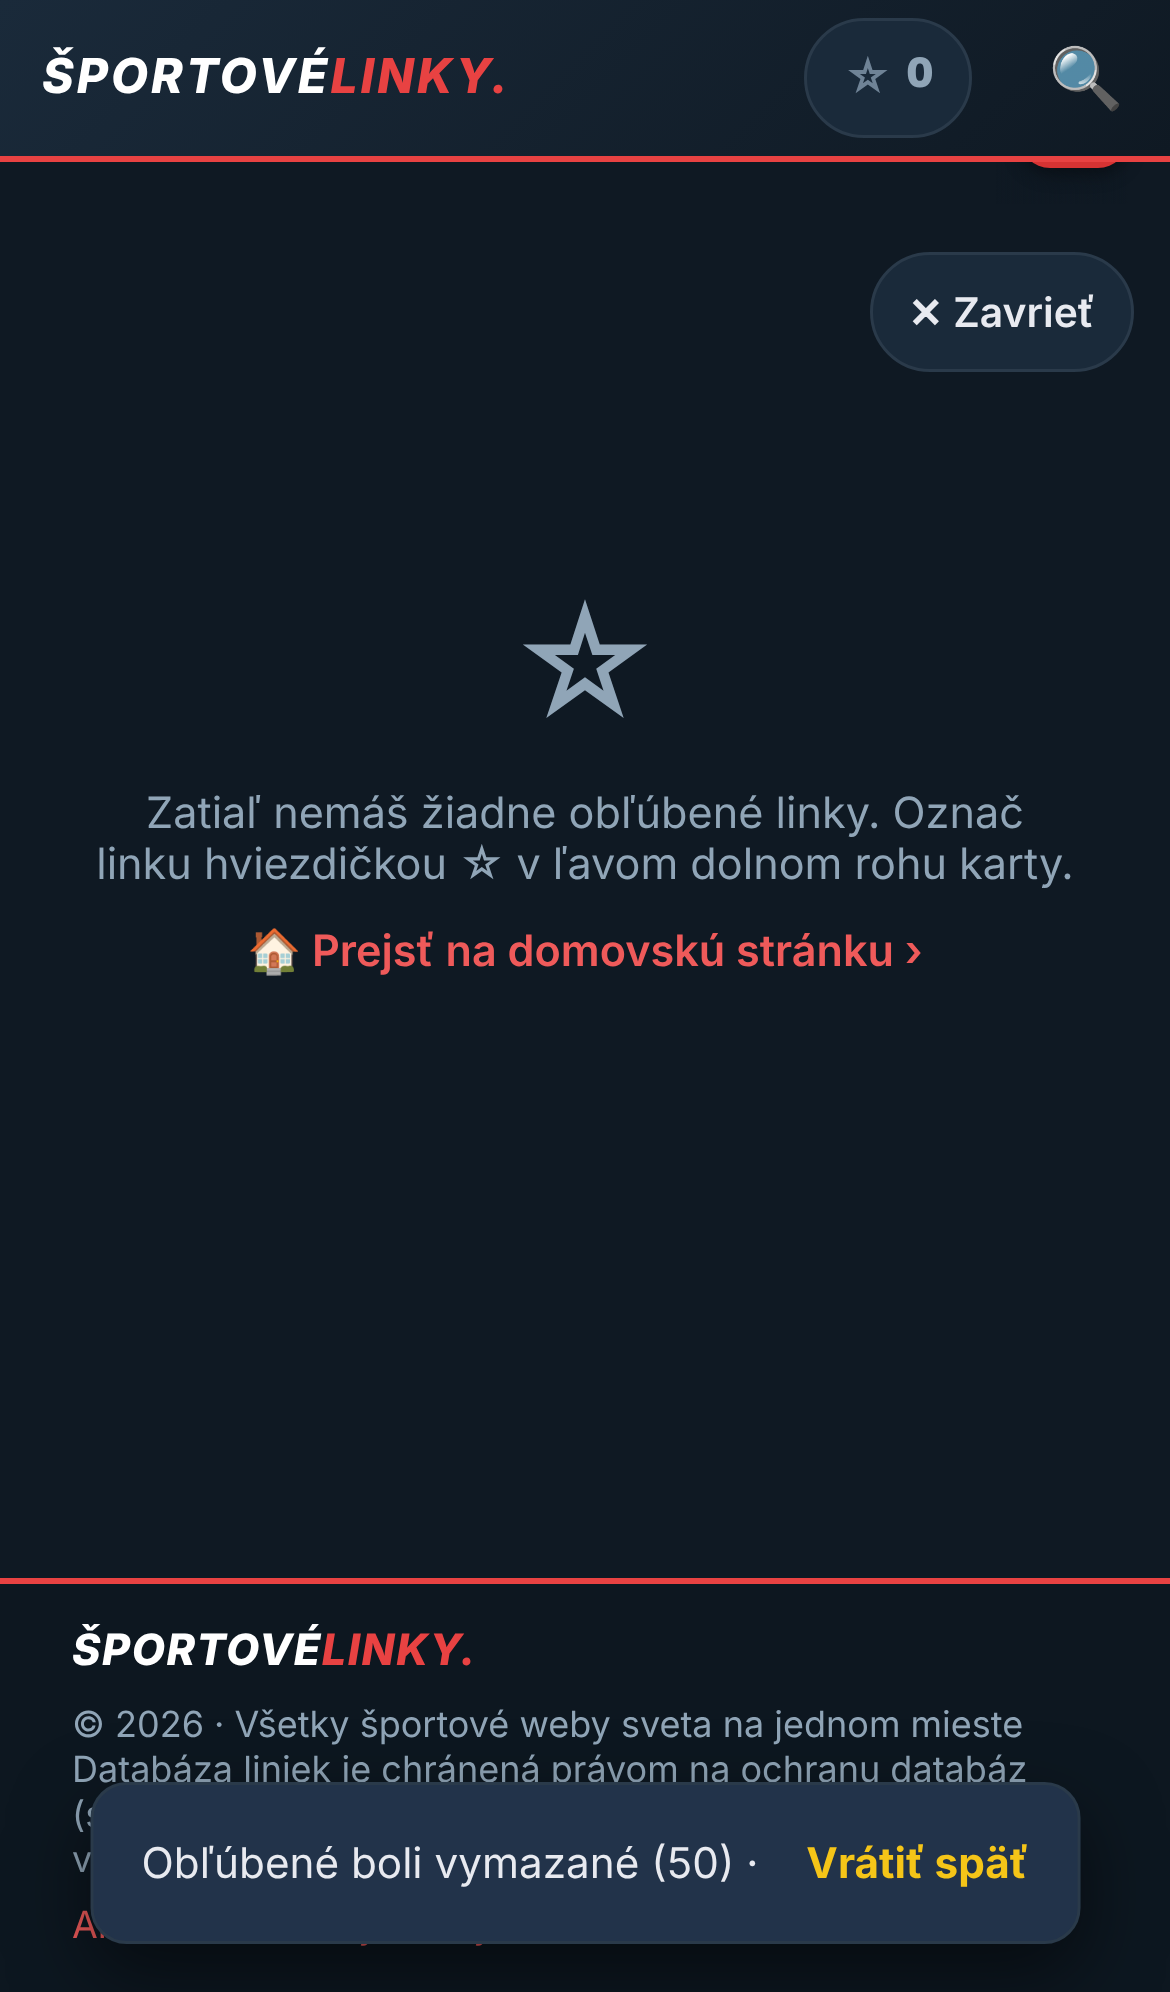
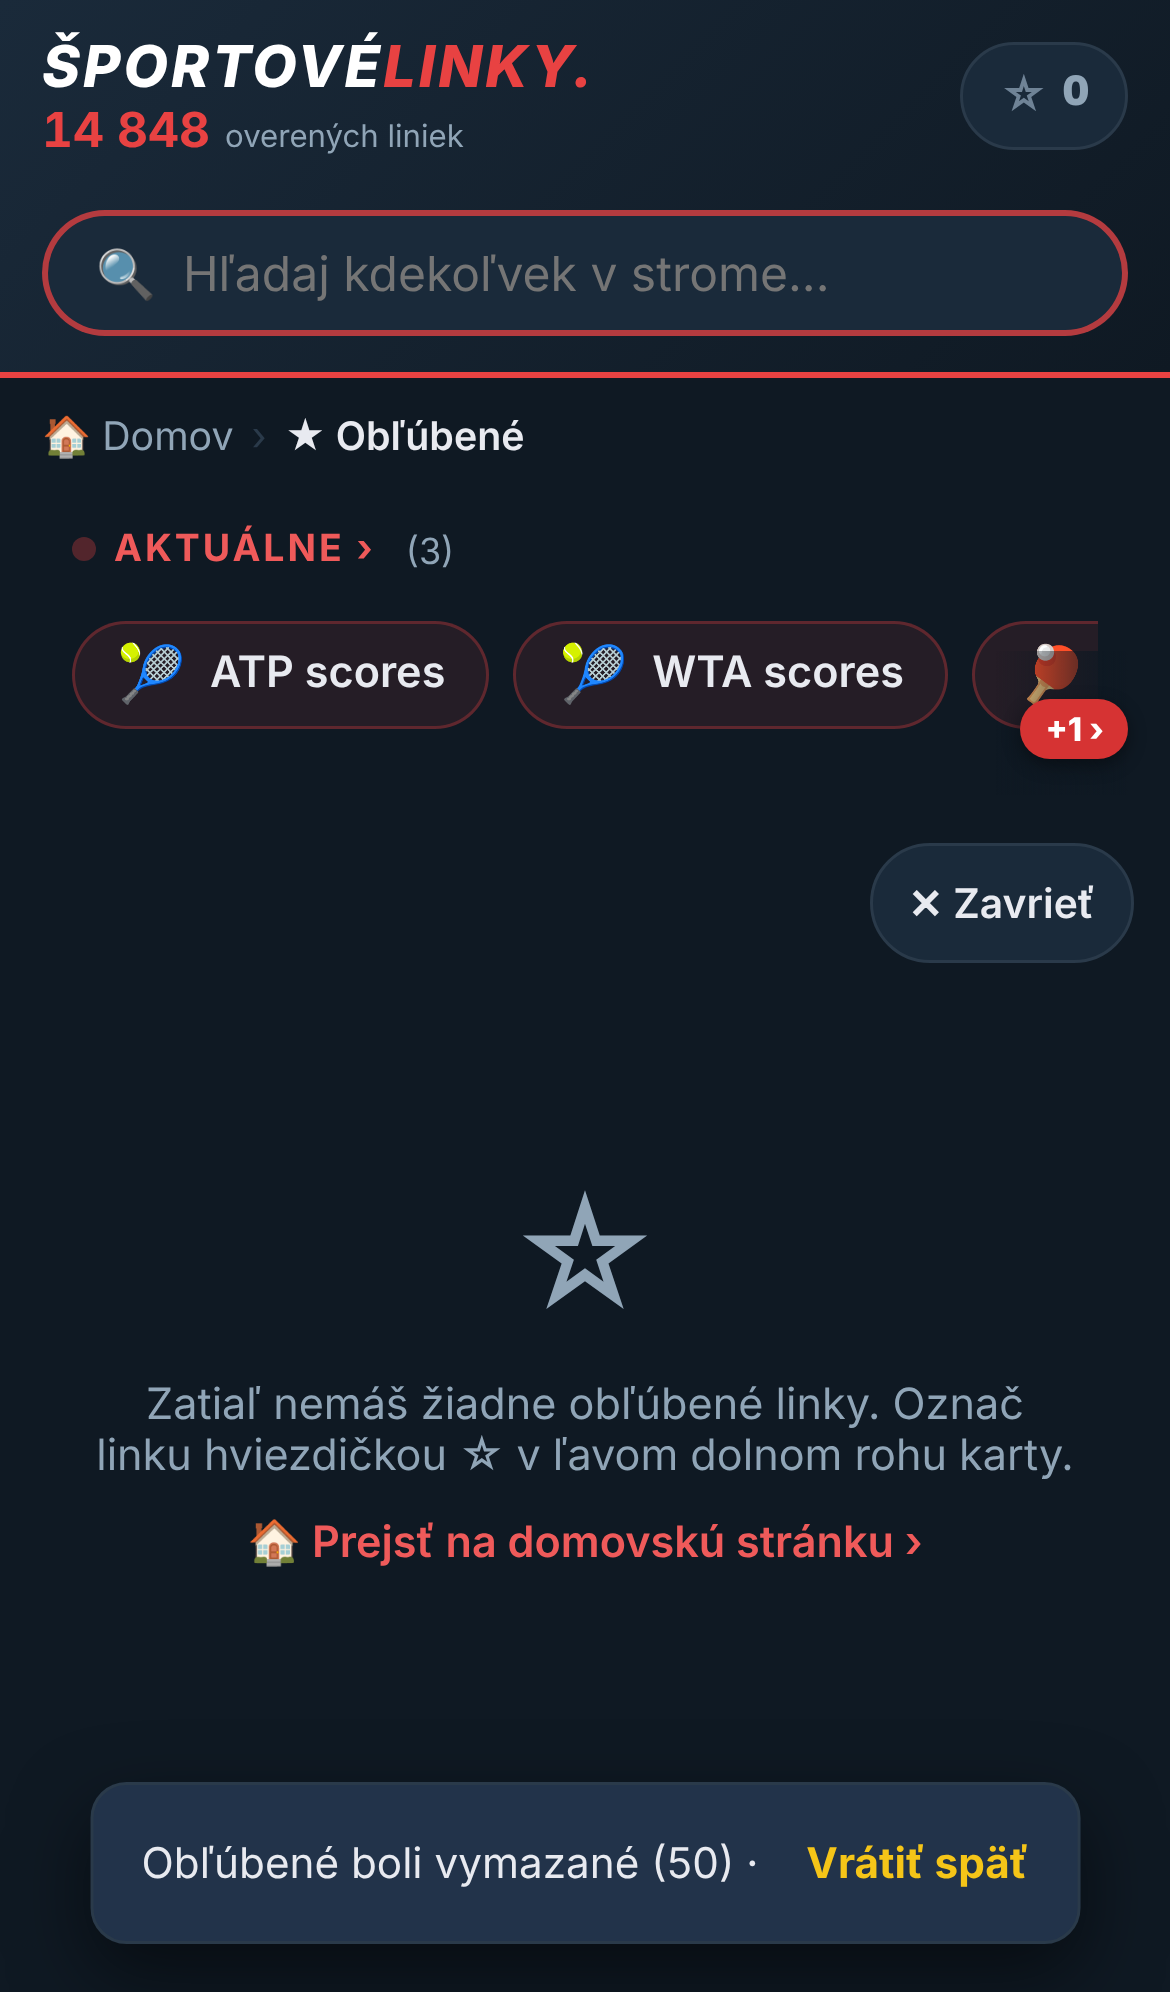
Zadanie 39a4: po vymazaní skok hore (pri obmedzení pohybu bez animácie), test r)
Claude-Session: https://claude.ai/code/session_01CrzunbYqTJ5LnUP6VqrXFo

diff --git a/index.html b/index.html
@@ -3289,6 +3289,10 @@ function favClearYes(){
   _favUndoData = FAV.map(x => ({id: x.id, t: x.t}));
   FAV = []; favWrite();
   favRefresh();                       // prázdny stav + „☆ 0“ v hlavičke
+  // prázdny stav aj „Zavrieť" hneď vidno — skok hore (pri obmedzení pohybu bez animácie)
+  let plynulo = true;
+  try{ plynulo = !window.matchMedia('(prefers-reduced-motion: reduce)').matches; }catch(e){}
+  try{ window.scrollTo({top: 0, behavior: plynulo ? 'smooth' : 'auto'}); }catch(e){ window.scrollTo(0, 0); }
   let u = document.getElementById('favUndo');
   if(!u){ u = document.createElement('div'); u.id = 'favUndo'; u.setAttribute('role', 'status'); document.body.appendChild(u); }
   u.innerHTML = `<span>${FT.vymazane} (${_favUndoData.length}) ·</span><button type="button" id="favUndoBtn" onclick="favUndo()">${FT.spat}</button>`;

diff --git a/testy/test_webu.py b/testy/test_webu.py
@@ -67,7 +67,7 @@ Zadanie 39a3: tlačidlo „☆ 0“ vidno aj pri 0, panel pri 0 s vetou (aj po o
 otvorenom paneli), „✕ Zavrieť obľúbené“ vráti na stránku, odkiaľ sa prišlo (priamy príchod → domov),
 pri ~50 obľúbených je riadok s hľadaním a Zavrieť prilepený pod hlavičkou aj na konci zoznamu.
 Zadanie 39a4: „🗑 Vymazať všetky“ dole pod zoznamom — otázka (Nie / Escape nič nezmení), Áno → 0
-a „☆ 0“, lišta „Vrátiť späť“ obnoví presne pôvodný zoznam (ID, poradie, časy), po F5 stav sedí.
+a „☆ 0“, stránka skočí hore, lišta „Vrátiť späť“ obnoví presne pôvodný zoznam (ID, poradie, časy), po F5 stav sedí.
 
 Spustenie (lokálne):  python testy/test_webu.py --url https://sportlinky.sk/
 Voliteľne:  --od 2026-11-02T02:30:00Z  (počkaj, kým živý web nemá novšiu verziu)
@@ -1642,8 +1642,16 @@ class Test:
                 or urllib.parse.urlsplit(page.url).query not in ("oblubene", "favorites")):
             raise Zlyhanie(f"{kde}: Escape pri otázke nemá byť nič iné než „Nie“ (stránka obľúbených ostáva)")
         page.click("#fvClearBtn")
+        if page.evaluate("scrollY") < 50:
+            raise Zlyhanie(f"{kde}: pred „Áno“ nie je stránka posunutá nadol — skok hore sa nedá overiť")
         page.click("#fvYes")
         page.wait_for_selector("#favUndo #favUndoBtn", state="visible")
+        try:   # po vymazaní skok hore — prázdny stav aj „Zavrieť“ hneď vidno
+            page.wait_for_function("() => scrollY === 0", timeout=3000)
+        except Exception:
+            raise Zlyhanie(f"{kde}: po „Áno, vymazať“ stránka neskočila hore (posun {page.evaluate('scrollY')} px)") from None
+        if not page.locator("#fvClose").is_visible() or not page.locator("#main .empty").is_visible():
+            raise Zlyhanie(f"{kde}: po vymazaní nie je hore vidno prázdny stav a „Zavrieť“")
         zoz = self.obl_zoznam(page)
         if zoz != [] or page.locator("#hFav").inner_text().split() != ["☆", "0"] or page.locator("#main .card-link").count():
             raise Zlyhanie(f"{kde}: po „Áno“ nie je 0 obľúbených a „☆ 0“ (úložisko {zoz}, hlavička {page.locator('#hFav').inner_text()})")
@@ -1662,7 +1670,7 @@ class Test:
         page.wait_for_timeout(300)
         if surovy() != povodny or self.obl_pocet_hlavicka(page) != n:
             raise Zlyhanie(f"{kde}: po F5 nesedí obnovený zoznam obľúbených")
-        return "vymazať: otázka/Nie/Escape/Áno → ☆ 0 → Vrátiť späť = rovnaký zoznam aj po F5"
+        return "vymazať: otázka/Nie/Escape/Áno → skok hore, ☆ 0 → Vrátiť späť = rovnaký zoznam aj po F5"
 
     def oblubene(self, pokus):
         if not self.data:
